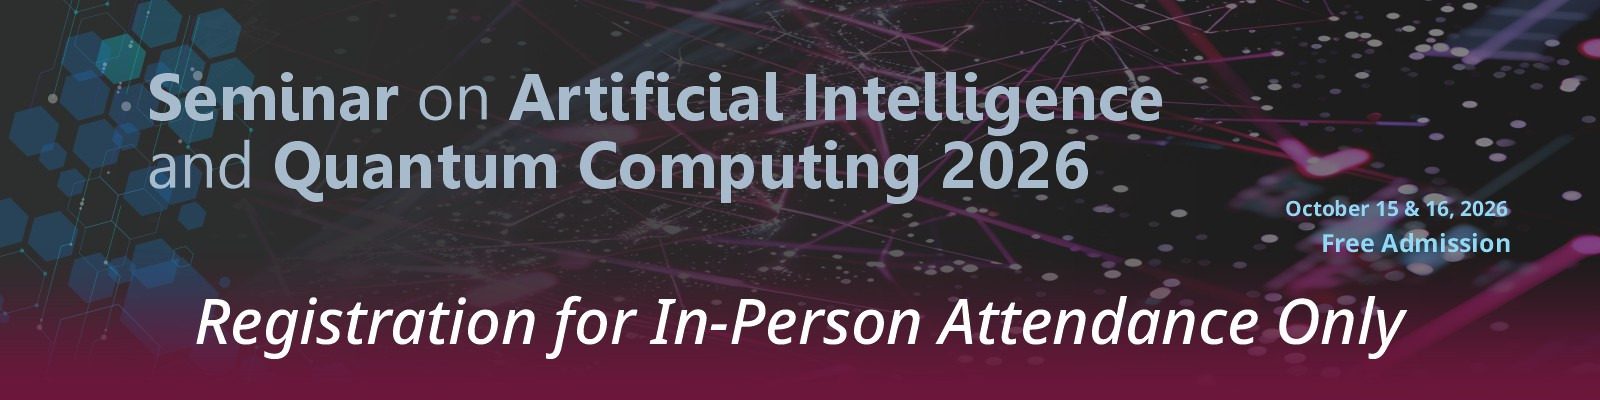
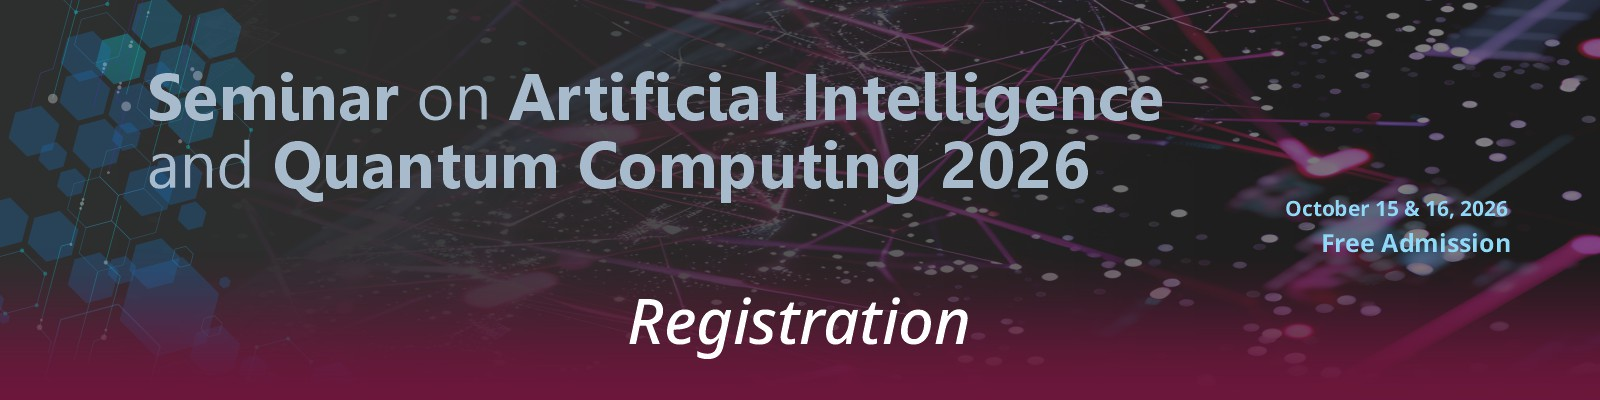
Adjust

Changed region(s): [[0.125, 0.75, 0.875, 0.9]]

diff --git a/index.html b/index.html
@@ -779,7 +779,7 @@
                         style="width: 80px;">
                     <div>
                         <strong>Dr. Moisés Sánchez Adame</strong><br>
-                        <em>CETYS Universidad</em>
+                        <em>CITEDI-IPN</em>
                     </div>
                 </div>
 
@@ -822,7 +822,7 @@
 
             <div class="cta-panel">
                 <a class="registration-cta" href="https://forms.gle/sKq8aqYSe5fvjxwk8" target="_blank" rel="noopener noreferrer">
-                    <img alt="Register for In-Person Attendance" src="img/GoogleForms.jpg"
+                    <img alt="Registration — Seminar on Artificial Intelligence and Quantum Computing 2026" src="img/GoogleForms.jpg?v=20261013"
                         class="cta-banner" />
                 </a>
             </div>
